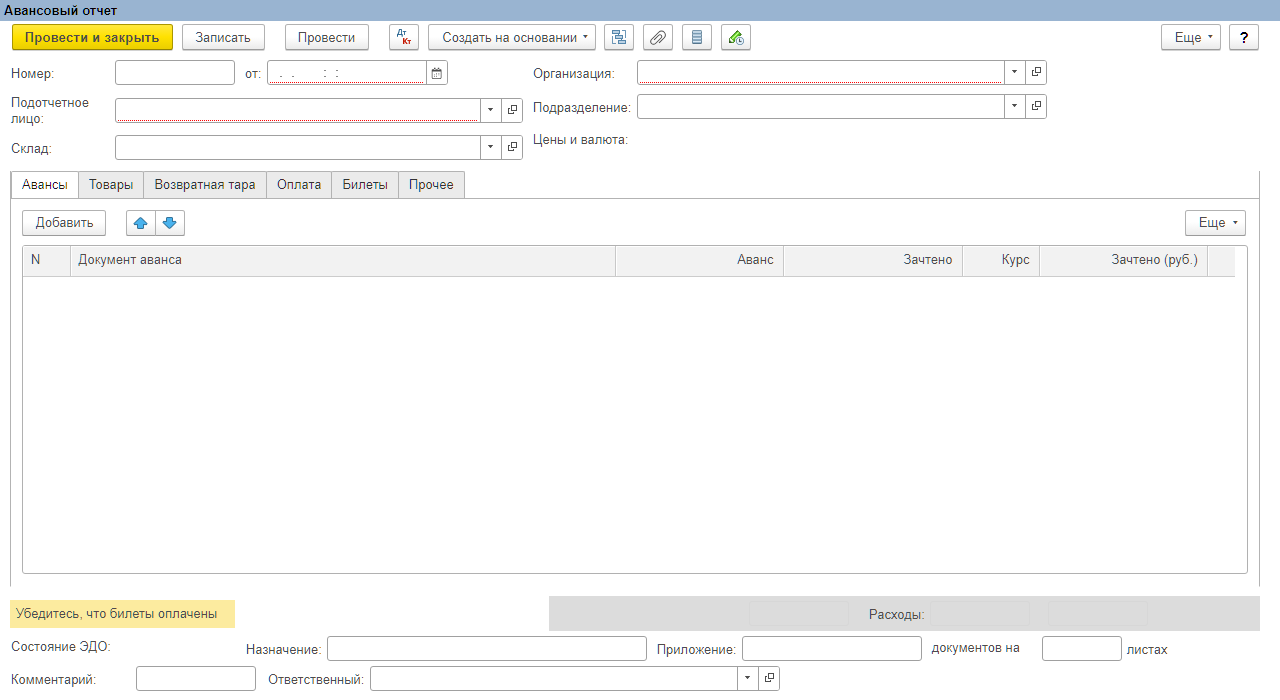
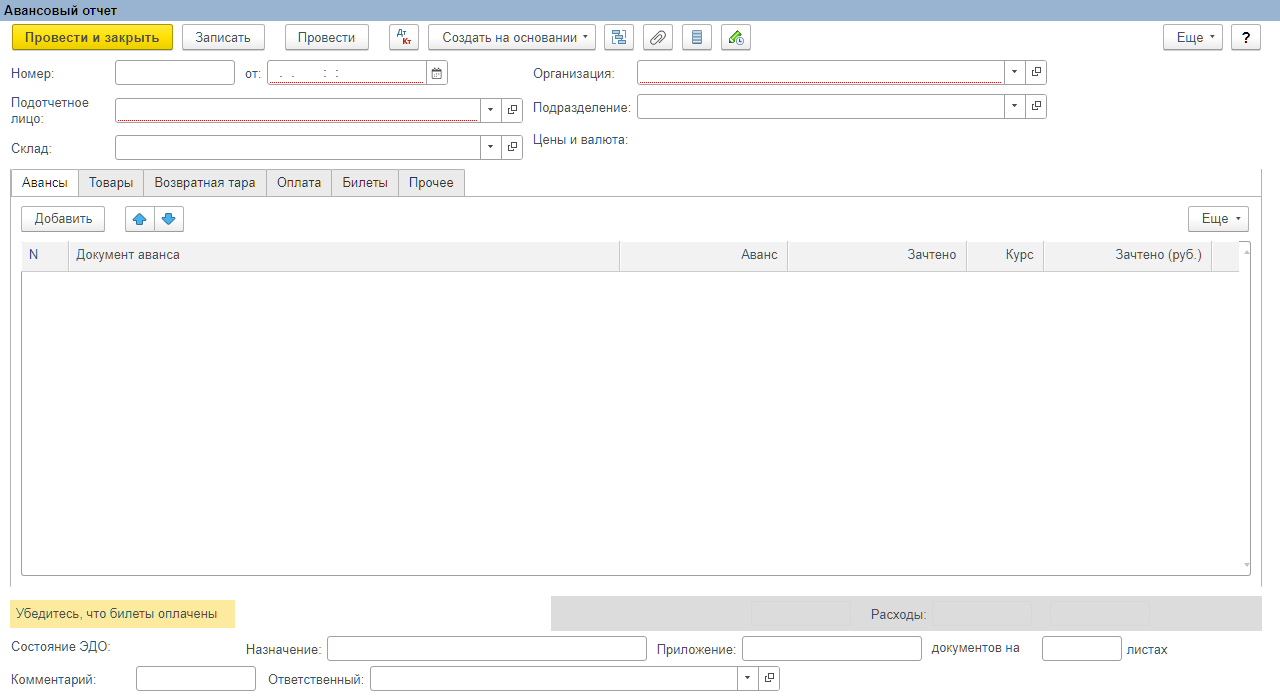
feat(forms): полотно формы и рамка таблицы как в конфигураторе
Дорожка прокрутки формы 18 px вместо 12, правый отступ полотна снят: страница 10…969 (было 10…967), рамка таблицы 21…958 (было 22…955), первый разделитель колонки 68 (было 70). Панель страницы перестала прокручиваться сама — её полоса забирала 16 px. Рамка таблицы рисуется inset-тенью #a0a0a0 по краю полотна, а не css-border #b1b1b1. Страница подтянута на 2 px к шапке. form_view_measure снимает без --hide-scrollbars. Сверка 988x438: 26 838 -> 18 790 различающихся пикселя (4,34 %).

diff --git a/resources/formpreview/css/qv8-host.css b/resources/formpreview/css/qv8-host.css
@@ -14,6 +14,53 @@ html, body {
     height: 100vh;
 }
 
+/* Собственная полоса прокрутки формы. У платформы она занимает 18 px справа и
+ * держит место постоянно, поэтому полотно формы шириной 988 отдаёт странице
+ * 988 - 10 (отступ слева) - 18 (дорожка) = 960 px: рамка страницы стоит на
+ * x=10 и x=969, как в эталоне конфигуратора. Прежние 8 px отступа справа при
+ * дорожке 12 px давали 958, и всё внутри съезжало на 2-3 px (рамка таблицы
+ * 22…955 вместо 21…958, первый разделитель 70 вместо 68). */
+.fp-body.fp-mockup {
+    padding-right: 0 !important;
+}
+/* Дорожка 18 px, а не 12: столько платформа держит справа у полотна формы.
+ * Оформление дорожки и бегунка берём из viewer.css — там оно уже под платформу. */
+.fp-body.fp-mockup::-webkit-scrollbar {
+    width: 18px;
+    height: 18px;
+}
+
+/* Прокручивается форма целиком — дорожка 18 px живёт у .fp-body, — а панель
+ * страницы сама не скроллится. Своя полоса панели забирала 16 px и сужала
+ * таблицу: рамка вставала 22…941 при ширине панели 938. В платформе таблица
+ * занимает всю панель, 21…958, а прокрутка одна — у формы. */
+.fp-pages-active-panel {
+    overflow: visible !important;
+}
+/* Оболочка .fp-item несёт прозрачную рамку 1 px и уводит таблицу на 22…957
+ * вместо 21…958: платформа рисует рамку таблицы ровно по границам панели. */
+.fp-pages-active-panel > .fp-item {
+    border-width: 0 !important;
+    padding-top: 0 !important;
+    padding-bottom: 0 !important;
+}
+/* Оболочка оставляет под шапкой 2 px, и страница встаёт на 2 px ниже: рамка
+ * страницы 171 вместо 169, а вместе с ней уезжает вся таблица. Верхние строки
+ * шапки при этом совпадают попиксельно, поэтому подтягивается только страница. */
+.fp-body.fp-mockup > .fp-pages-tabs {
+    margin-top: -2px !important;
+}
+
+/* Рамка таблицы съедала по 1 px с боков: колонки начинались с 22 вместо 21, и
+ * первый разделитель вставал на 69 вместо 68. Платформа рисует рамку по краю
+ * полотна, поэтому css-border заменён inset-тенью цвета эталона (#a0a0a0).
+ * Пустая таблица дорожку прокрутки держит — в эталоне справа видна её дорожка
+ * с кнопкой-стрелкой, — поэтому правый отступ у колонок остаётся 12 px. */
+.fp-mockup .fp-table-mock {
+    border: 0 !important;
+    box-shadow: inset 0 0 0 1px #a0a0a0;
+}
+
 /* Панель страницы в конфигураторе не обведена рамкой. В эталоне формы
  * «Авансового отчёта» вертикальные линии стоят только на x=10 и x=969 (рамка
  * формы) и на x=21 и x=958 (рамка таблицы); линии панели между ними нет.

diff --git a/tools/form_view_measure.py b/tools/form_view_measure.py
@@ -109,7 +109,11 @@ def shoot(args, out_path: str) -> None:
     if os.path.exists(out_path):
         os.remove(out_path)
     subprocess.run(
-        [find_chrome(), "--headless=new", "--disable-gpu", "--hide-scrollbars",
+        # Без --hide-scrollbars: приложение рисует собственную полосу прокрутки
+        # формы (18 px, см. qv8-host.css), и место под неё входит в ширину
+        # полотна. С флагом Chromium дорожку не занимает, полотно выходит шире
+        # эталона, и снимок перестаёт мерить то, что видно в программе.
+        [find_chrome(), "--headless=new", "--disable-gpu",
          "--force-device-scale-factor=1",
          "--window-size=%d,%d" % (args.width, args.height),
          "--screenshot=" + out_path,

diff --git a/CHANGELOG.md b/CHANGELOG.md
@@ -1,5 +1,32 @@
 # История изменений
 
+## [Не выпущено]
+
+### Исправлено
+
+- Точный вид: полотно формы отдаёт странице столько же места, сколько
+  конфигуратор. Дорожка прокрутки формы стала 18 px (было 12), правый отступ
+  полотна снят: страница занимает 10…969, а не 10…967, и рамка таблицы встала
+  на 21…958 вместо 22…955.
+- Точный вид: панель страницы больше не прокручивается сама — её полоса
+  забирала 16 px и сужала таблицу до 920 px. Прокручивается форма целиком.
+- Точный вид: рамка таблицы рисуется по краю полотна цветом #a0a0a0 (inset-
+  тень вместо css-border #b1b1b1): рамка съедала по 1 px с боков, и первый
+  разделитель колонки был на 70 вместо 68. С оболочки вокруг таблицы сняты
+  прозрачная рамка и вертикальные отступы.
+- Точный вид: страница встала на 169 вместо 171 — оболочка оставляла под
+  шапкой 2 px, и вместе со страницей уезжала вся таблица (заголовок на 275
+  вместо 271).
+- `tools/form_view_measure.py` снимает форму без `--hide-scrollbars`: в
+  программе дорожка прокрутки своя, и её место входит в ширину полотна, а с
+  флагом Chromium дорожку не занимает и снимок мерил не то, что видно.
+
+Суммарный эффект сверки с конфигуратором по форме «Авансового отчёта»
+(988×438, порог 24 на канал): 26 838 → 18 790 различающихся пикселя
+(6,2 % → 4,34 %). Замеры и оставшиеся расхождения — в
+`docs/form-exact-view.md`, раздел «Сверка после правки полотна и рамки
+таблицы».
+
 ## [0.11.0] — 2026-11-24
 
 ### Добавлено
@@ -1036,4 +1063,5 @@
 - Первый публичный релиз: чтение `.cf/.cfe/.epf/.erf`, CLI и GUI,
   выгрузка объектов, портативные сборки Windows и Linux (AppImage, tar.gz),
   GitHub Actions.
+
 
